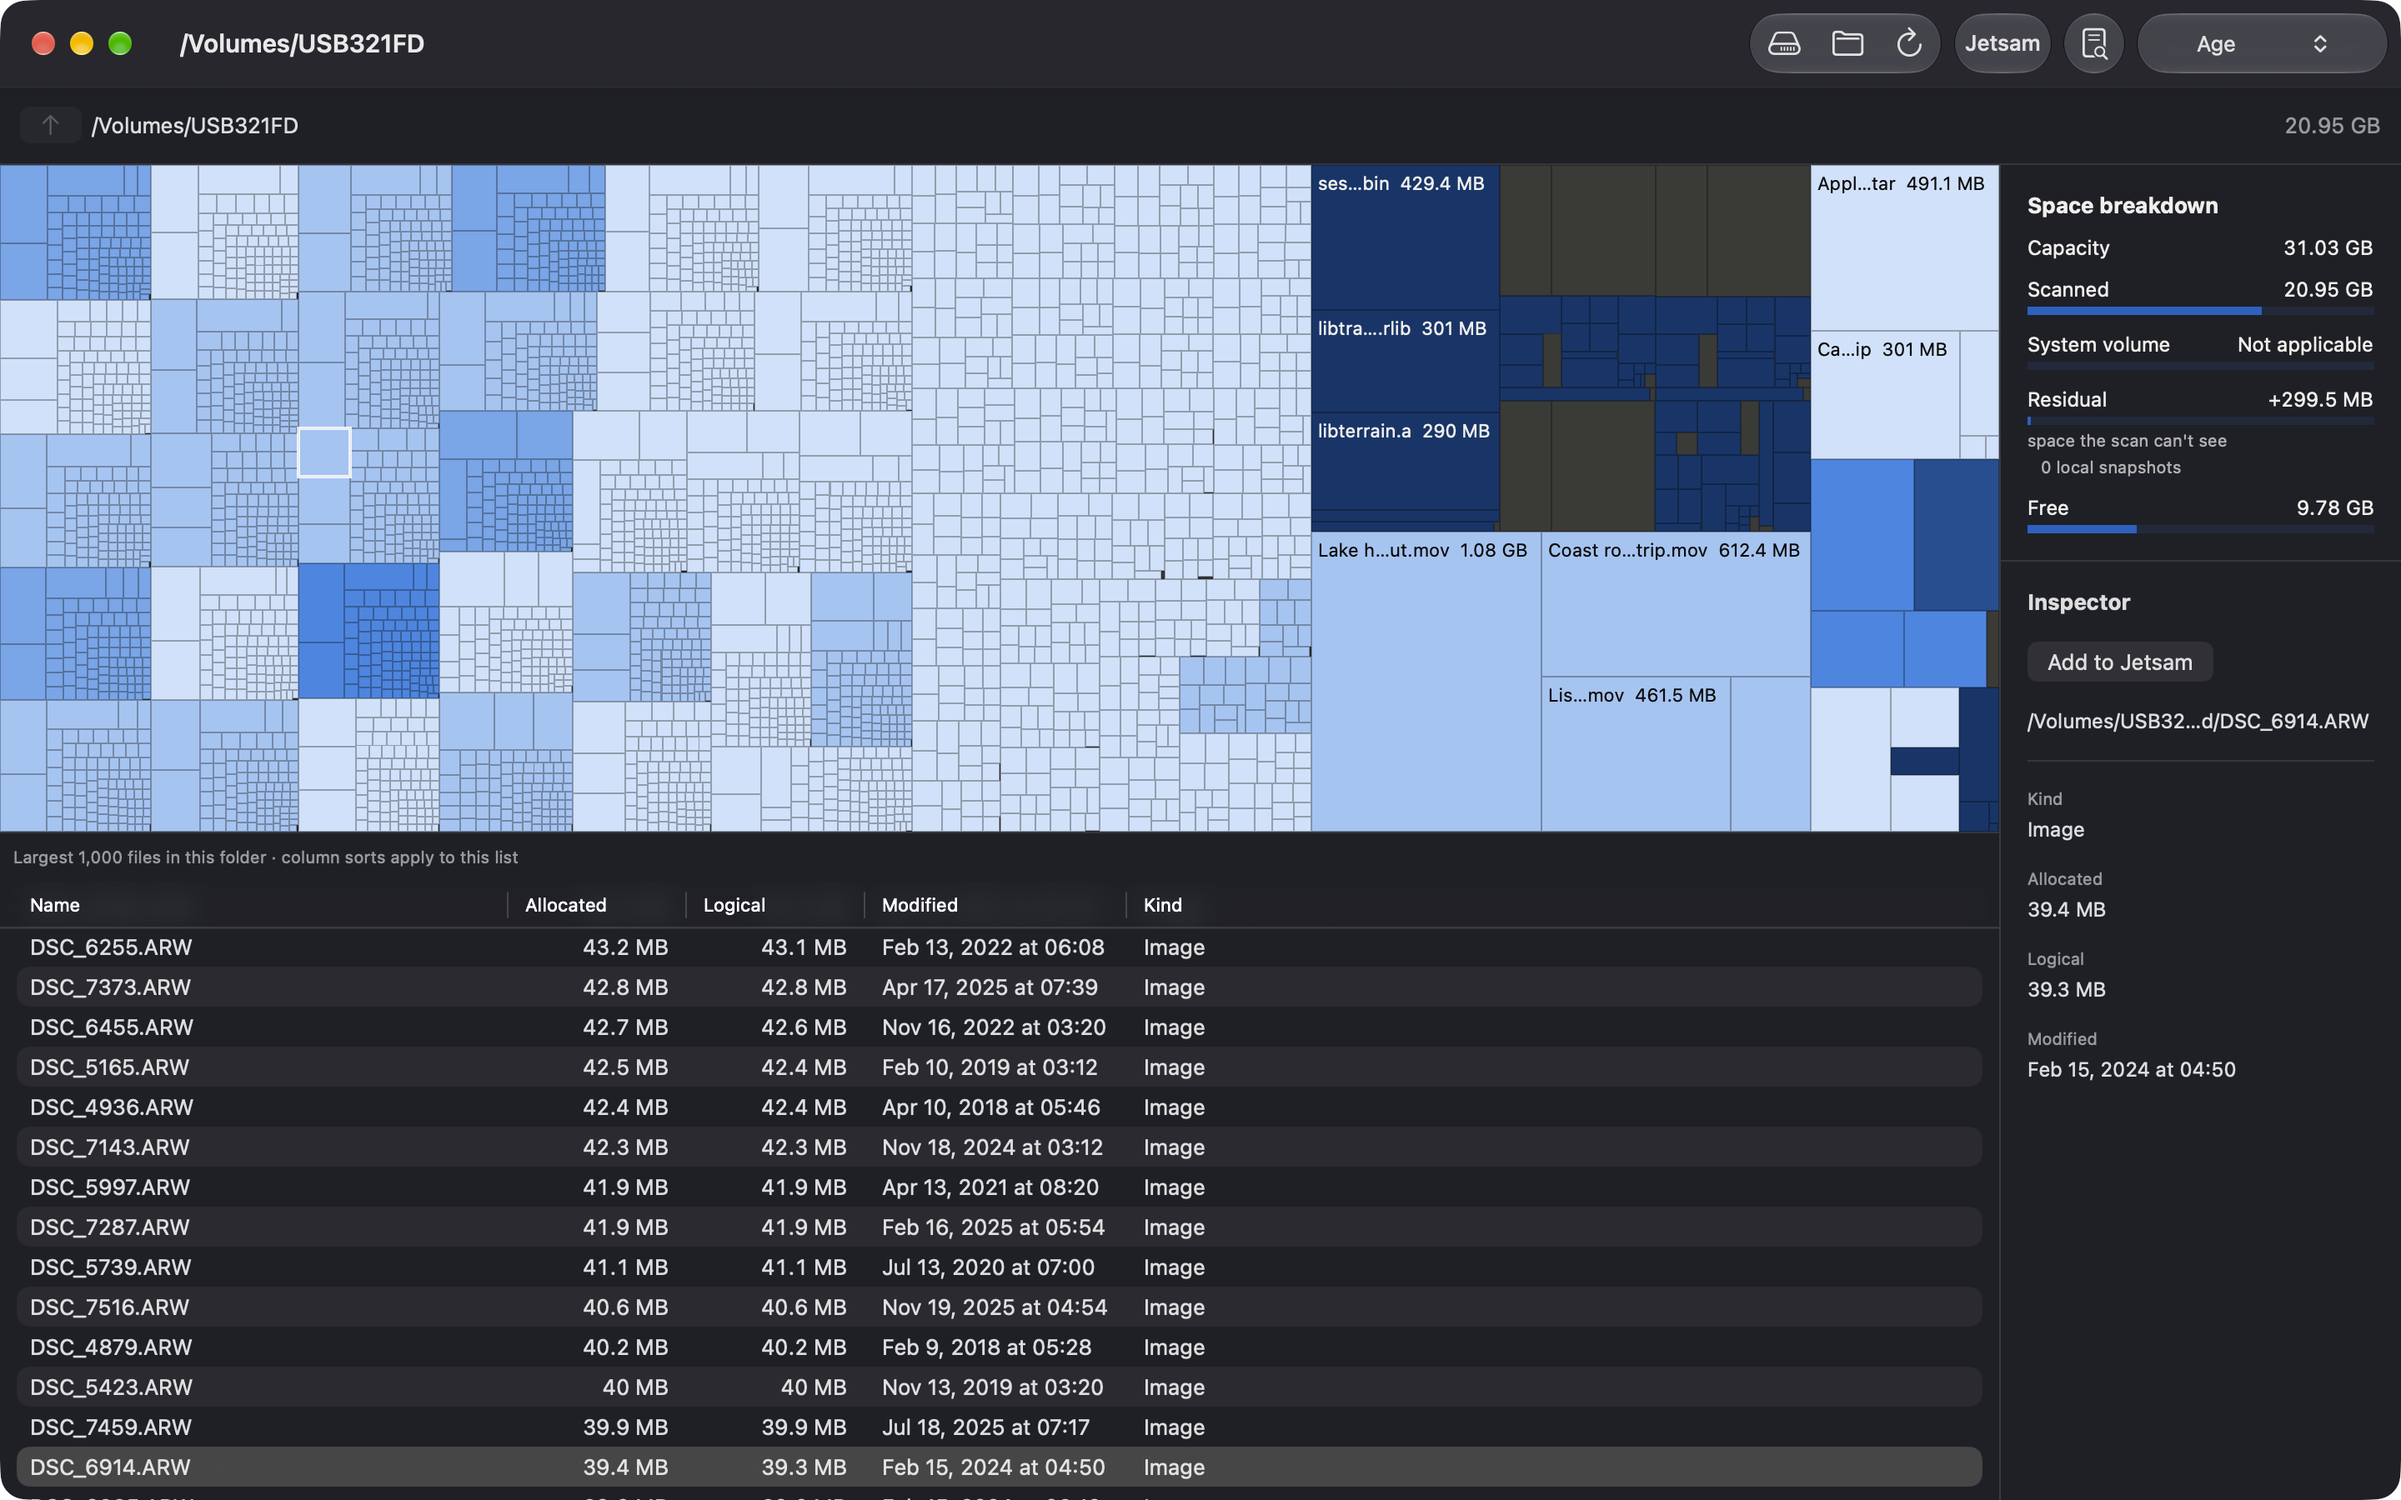
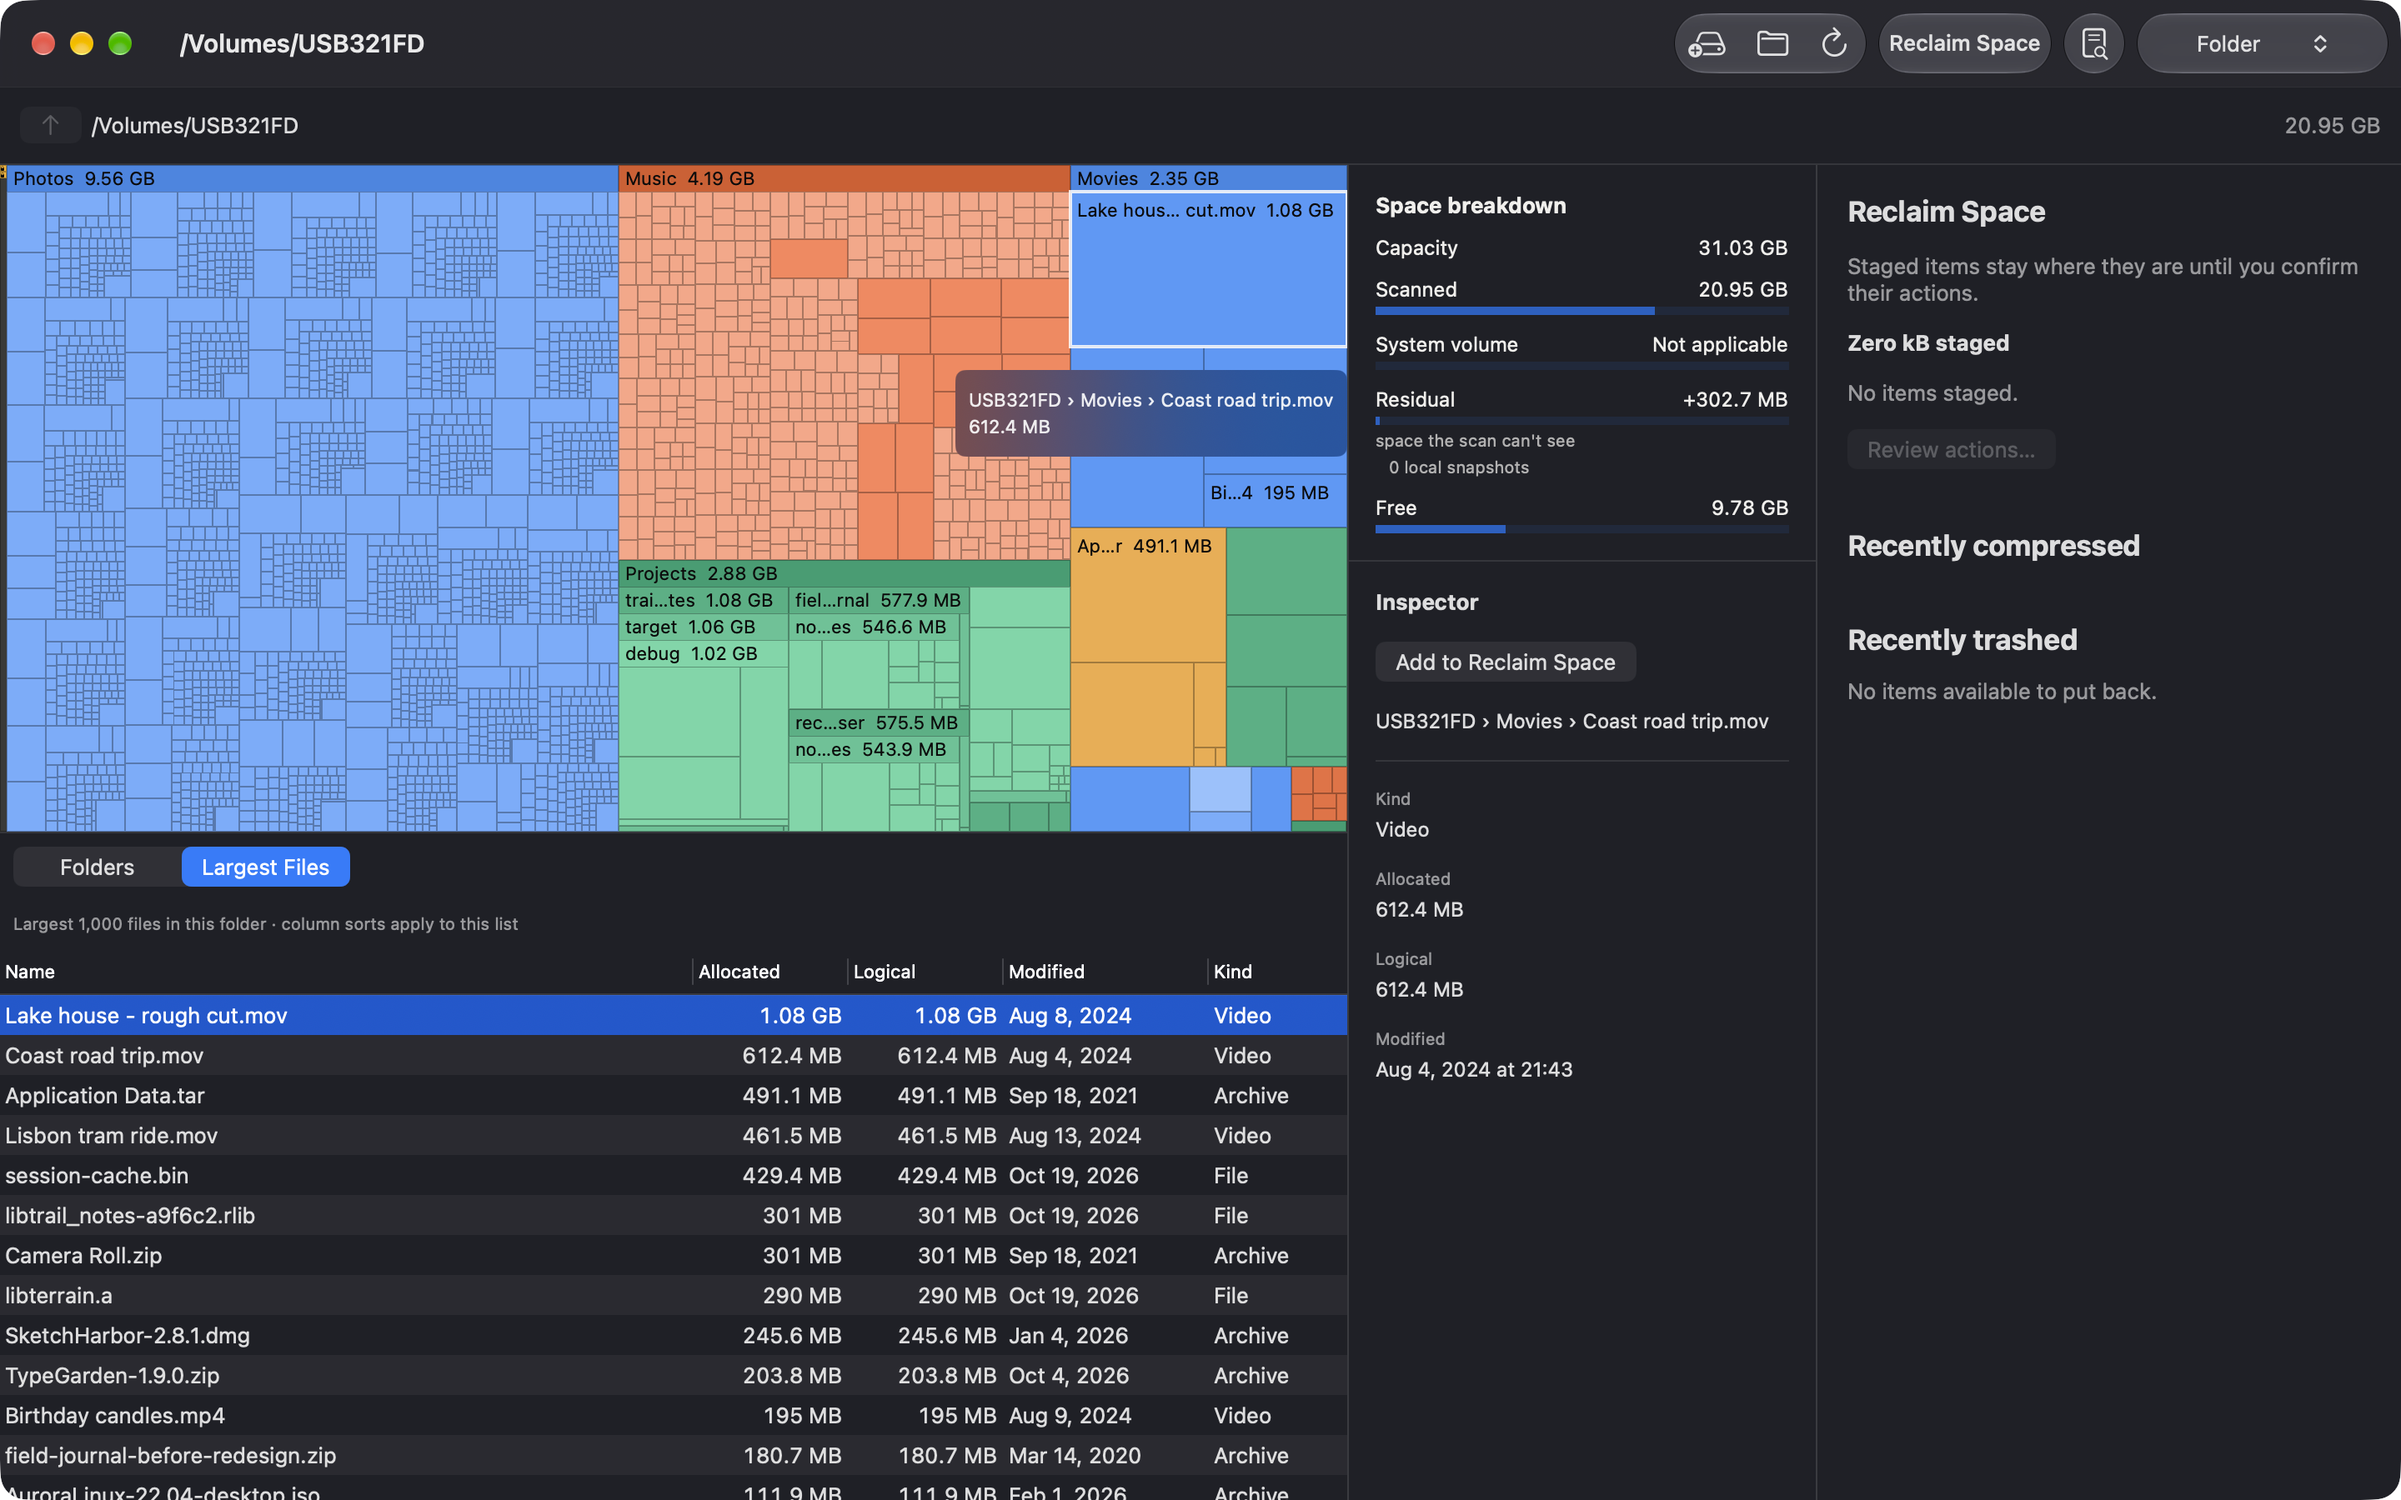
docs: README screenshots of the Phase 6 UI
Start screen, folder-coloured overview, hover path and Inspector, Reclaim
Space with every archive format, and the scan report, taken from the demo
volume. Each image now sits in the section it illustrates.

diff --git a/README.md b/README.md
@@ -4,7 +4,7 @@ Tesserae is a GPL-3 disk-space visualizer for macOS 13 Ventura and later,
 with a Rust scan engine and a SwiftUI/Metal treemap. Explore what uses space,
 inspect files, and reclaim space with reviewed Trash, Compress and Archive actions.
 
-![Tesserae showing a 21 GB drive as a treemap, coloured by age, with the space breakdown beside it](docs/images/overview.png)
+![Tesserae showing a 21 GB drive as a treemap, each top-level folder in its own colour with name strips, the folder tree below and the space breakdown beside it](docs/images/overview.png)
 
 ## Install
 
@@ -51,6 +51,8 @@ the read-only system volume appears in the space breakdown. Progress counts
 files as they are scanned. For a complete picture, grant Full Disk Access
 (see below).
 
+![The start screen listing the startup disk, a USB drive and a network volume, each with its format, used and free space and a Scan button](docs/images/welcome.png)
+
 ### Explore the map
 
 Each tile is a file or folder, sized by its space on disk. Click to zoom one
@@ -72,6 +74,8 @@ folder to enter it. Selection follows between the tree and map. Switch to
 **Largest Files** for the top 1,000 files under the current view; column sorts
 reorder that list.
 
+![The pointer resting on a video tile: a pop-up and the Inspector both show its path from the scanned drive, USB321FD › Movies › Coast road trip.mov, with its size and date](docs/images/inspect.png)
+
 ### Check the scan
 
 For a whole-volume scan, the **space breakdown** compares what the scan found
@@ -82,6 +86,8 @@ means shared blocks were counted twice.
 **Scan report** lists unreadable and skipped locations, cloud-only files and
 anything that made the scan partial. **Copy Diagnostics** copies it to your
 clipboard for a bug report.
+
+![The scan report beside the space breakdown, listing what the scan skipped and why](docs/images/report.png)
 
 ### Reclaim space
 
@@ -133,17 +139,14 @@ disabled when they can't keep them. On APFS/HFS+, every real `._` file is
 content and likewise needs Apple Archive. If you select a recognised sidecar
 itself, archive its sibling instead.
 
+![Two items staged in Reclaim Space on an exFAT drive: a video set to Move to Trash, and a backup set to Archive with ZIP chosen and the Advanced formats expanded](docs/images/staging.png)
+
 ### Decompress
 
 In **Reclaim Space → Recently compressed**, choose **Decompress…** and review
 the current warnings. This restores ordinary storage for files Tesserae
 compressed in that run, provided their identities still match. It needs
 additional free space and doesn't act on files compressed by other apps.
-
-![A photo selected in the treemap, with its details in the Inspector](docs/images/inspect.png)
-
-![The scan report, listing what the scan skipped and why](docs/images/report.png)
-![Items staged in Reclaim Space, with their sizes, before actions are confirmed](docs/images/staging.png)
 
 ## Feedback
 
